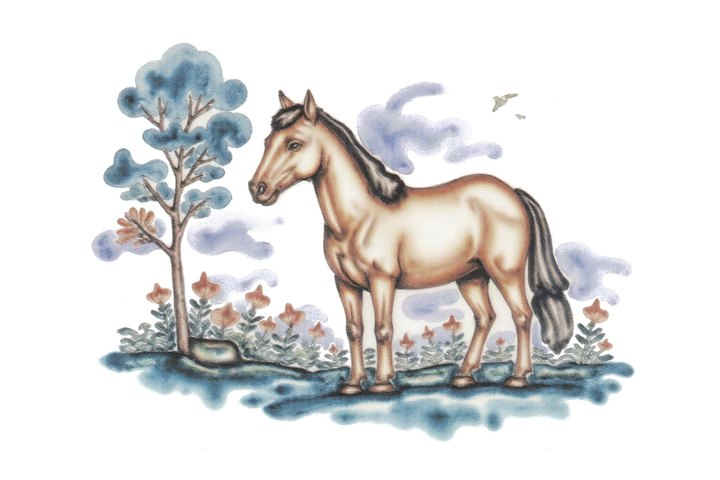
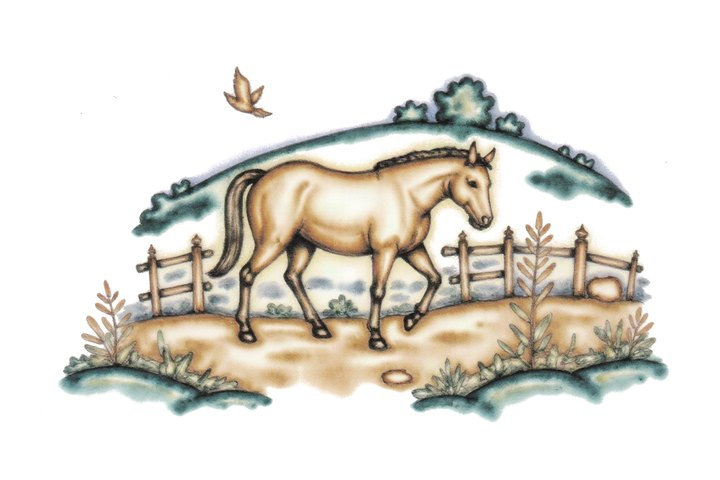
Horse page: random order each load, eight a page with arrows and the labels' slide; subtitle gone; chosen horses for Schmerling and both Kakabadzes

diff --git a/src/app/page.tsx b/src/app/page.tsx
@@ -1448,6 +1448,17 @@ const sleep = (ms: number) => new Promise((r) => setTimeout(r, ms));
   const [painters, setPainters] = useState<{ id: string; name: string; avatar: string; crop: string; page: boolean; horse?: string; horseOrder?: number }[]>([]);
   /* the taste page's message ("select 3"), in its own reserved row */
   const [tasteWarn, setTasteWarn] = useState(false);
+  /* 2026-09-29 (owner): the horses come in a RANDOM order on every load, so
+     every artist has the same chance of the first page; eight a page, the
+     arrows turn the pages with the labels' column slide */
+  const tasteOrder = useRef<Map<string, number>>(new Map());
+  const [tastePg, setTastePg] = useState(0);
+  const [tasteSlide, setTasteSlide] = useState<{ from: number; dir: number; n: number } | null>(null);
+  const showTastePg = (k: number) => {
+    setTasteSlide({ from: tastePg, dir: k > tastePg ? 1 : -1, n: Date.now() });
+    setTastePg(k);
+    setTimeout(() => setTasteSlide((sl) => (sl && Date.now() - sl.n >= SLIDE_MS + 200 ? null : sl)), SLIDE_MS + 260);
+  };
   const [styleOpen, setStyleOpen] = useState(false);
   useEffect(() => {
     fetch("/api/artists").then((r) => r.json()).then((b) => { setSiteArtists(b.artists || []); setPainters(b.painters || []); }).catch(() => { });
@@ -3161,48 +3172,70 @@ const sleep = (ms: number) => new Promise((r) => setTimeout(r, ms));
          four a row, margin to margin, as the owner laid them out; a fifth
          painter opens a second row. */
       case "taste": {
-        const list = painters.filter((a) => a.horse).sort((x, y) => (x.horseOrder ?? 99) - (y.horseOrder ?? 99));
+        /* a random order, drawn once per page load for every horse there is */
+        const horses = painters.filter((a) => a.horse);
+        for (const a of horses) if (!tasteOrder.current.has(a.id)) tasteOrder.current.set(a.id, Math.random());
+        const list = [...horses].sort((x, y) => tasteOrder.current.get(x.id)! - tasteOrder.current.get(y.id)!);
         const need = Math.min(3, list.length);
-        const IW = 240, IH = 160, COLS = 4;
+        const IW = 240, IH = 160, COLS = 4, PER = 8;
+        const pages = Math.max(1, Math.ceil(list.length / PER));
+        const pg = Math.min(tastePg, pages - 1);
         const colX = (k: number) => 137.14 + k * ((1302.86 - 137.14 - IW) / (COLS - 1));
-        const rows = Math.ceil(list.length / COLS);
-        /* one row: the owner's y (image 330.76, Select on 543.08); two rows
-           share the band between the subtitle and the bar */
-        const rowY = (r: number) => rows <= 1 ? 330.76 : 225 + r * 235;
-        /* Select's baseline under its picture: the owner's 52.32 for one row,
-           tighter (34) when two rows share the page */
-        const SEL_OFF = rows <= 1 ? 52.32 : 34;
+        /* two rows of four, the block centred between the title and the bar
+           (the owner's subtitle went, 2026-09-29) */
+        const SEL_OFF = 34;
+        const rowY = (r: number) => 208 + r * 235;
         const full = pickArtists.length >= need;
         const toggle = (id: string) => {
           setTasteWarn(false);
           setPickArtists((pa) => pa.includes(id) ? pa.filter((x) => x !== id) : pa.length >= need ? pa : [...pa, id]);
         };
+        const horse = (a: (typeof list)[number], k: number, live: boolean) => {
+          const x = colX(k % COLS), y = rowY(Math.floor(k / COLS)), cx = x + IW / 2;
+          const on = pickArtists.includes(a.id), grey = !on && full;
+          const base = y + IH + SEL_OFF;
+          return (
+            <span key={"horse" + a.id} style={{ opacity: grey ? 0.35 : 1, transition: `opacity 240ms ${EASE}`, pointerEvents: live ? "auto" : "none" }}>
+              {/* eslint-disable-next-line @next/next/no-img-element */}
+              <img src={a.horse} alt="" draggable={false} onClick={() => toggle(a.id)}
+                style={{ ...px(x, y, IW, IH), objectFit: "contain", display: "block", cursor: grey ? "default" : "pointer" }} />
+              <button onClick={() => toggle(a.id)} disabled={grey} aria-label={`select ${a.name}`}
+                style={{ ...px(cx - 28.24 - 10.56, base - 4.4 - 10.56 - 4, 90, 29), ...ghost, cursor: grey ? "default" : "pointer", textTransform: "none" }}>
+                {/* the site's standard ring (18 across, 2 thick, dot 7.5) */}
+                <span style={{ position: "absolute", left: 1.56, top: 5.56 }}>{ringSvg(18, on, { stroke: 2, dot: 7.5 })}</span>
+                <span style={{ position: "absolute", left: 10.56 + 28.24 - 7.43, top: baseTop(base, 15) - (base - 4.4 - 10.56 - 4), font: `700 15px/15px ${HNW}`, color: INK, whiteSpace: "nowrap" }}>{t("Select")}</span>
+              </button>
+            </span>
+          );
+        };
+        /* one page as four column layers — they slide one after another, as
+           the label versions do */
+        const cascade = (col: number, dir: number) => (dir > 0 ? col : COLS - 1 - col) * 70;
+        const pageLayer = (p2: number, mode: "still" | "in" | "out", dir: number) => {
+          const items = list.slice(p2 * PER, p2 * PER + PER);
+          return Array.from({ length: COLS }, (_, col) => (
+            <div key={`tp${p2}-${col}-${mode}`} style={{ position: "absolute", left: 0, top: 0, width: W, height: H, pointerEvents: "none",
+              animation: mode === "still" ? "none" : `${mode === "in" ? (dir > 0 ? "nuiSetInR" : "nuiSetInL") : (dir > 0 ? "nuiSetOutL" : "nuiSetOutR")} ${SLIDE_MS}ms ${EASE} ${cascade(col, dir)}ms both` }}>
+              {items.map((a, k) => (k % COLS === col ? horse(a, k, mode !== "out" && !inSlide) : null))}
+            </div>
+          ));
+        };
+        const midY = (rowY(0) + rowY(1) + IH) / 2;
+        const arrow = (lab: string, x: number, pts: string, to: number) => (
+          <button key={lab} aria-label={lab} onClick={() => showTastePg(to)}
+            style={{ ...px(x - 30 + 6, midY - 36, 60, 72), ...ghost, zIndex: 12, display: "flex", alignItems: "center", justifyContent: "center" }}>
+            <svg viewBox="0 0 18 22" width="25.2" height="33.6" style={{ overflow: "visible" }}><polyline points={pts} fill="none" stroke="#111" strokeWidth="1.6" /></svg>
+          </button>
+        );
         return (<>
           <span style={{ ...px(137.14, baseTop(149.08, 19), 900, 22), font: `700 19px ${HNW}`, lineHeight: "19px", color: INK, whiteSpace: "nowrap" }}>{t("BEFORE WE START, SELECT 3 HORSES YOU LIKE.")}</span>
-          {[t("Do not overthink, just select the ones"), t("that catch your attention.")].map((ln, i) => (
-            <span key={"tsub" + i} style={{ ...px(136.97, baseTop(182.56 + i * 18, 15), 700, 18), font: `italic 15px ${HNW}`, lineHeight: "15px", color: INK, whiteSpace: "nowrap" }}>{ln}</span>
-          ))}
-          {list.map((a, k) => {
-            const x = colX(k % COLS), y = rowY(Math.floor(k / COLS)), cx = x + IW / 2;
-            const on = pickArtists.includes(a.id), grey = !on && full;
-            const base = y + IH + SEL_OFF;
-            return (
-              <span key={"horse" + a.id} style={{ opacity: grey ? 0.35 : 1, transition: `opacity 240ms ${EASE}` }}>
-                {/* eslint-disable-next-line @next/next/no-img-element */}
-                <img src={a.horse} alt="" draggable={false} onClick={() => toggle(a.id)}
-                  style={{ ...px(x, y, IW, IH), objectFit: "contain", display: "block", cursor: grey ? "default" : "pointer" }} />
-                <button onClick={() => toggle(a.id)} disabled={grey} aria-label={`select ${a.name}`}
-                  style={{ ...px(cx - 28.24 - 10.56, base - 4.4 - 10.56 - 4, 90, 29), ...ghost, cursor: grey ? "default" : "pointer", textTransform: "none" }}>
-                  {/* the site's standard ring (18 across, 2 thick, dot 7.5) on the owner's centre */}
-                  <span style={{ position: "absolute", left: 1.56, top: 5.56 }}>{ringSvg(18, on, { stroke: 2, dot: 7.5 })}</span>
-                  <span style={{ position: "absolute", left: 10.56 + 28.24 - 7.43, top: baseTop(base, 15) - (base - 4.4 - 10.56 - 4), font: `700 15px/15px ${HNW}`, color: INK, whiteSpace: "nowrap" }}>{t("Select")}</span>
-                </button>
-              </span>
-            );
-          })}
+          {tasteSlide && tasteSlide.from !== pg && pageLayer(tasteSlide.from, "out", tasteSlide.dir)}
+          {pageLayer(pg, tasteSlide ? "in" : "still", tasteSlide?.dir || 1)}
+          {pages > 1 && pg > 0 && arrow("previous horses", 137.14 - 48, "13,3 5,11 13,19", pg - 1)}
+          {pages > 1 && pg < pages - 1 && arrow("next horses", 1302.86 + 48 - 12, "5,3 13,11 5,19", pg + 1)}
           {/* the red button asks for three — said here, in its own row */}
           {tasteWarn && (
-            <span style={{ ...px(137.14, baseTop(rowY(rows - 1) + IH + 100, 13), 1165.72, 16), font: `13px ${HNW}`, lineHeight: "13px", color: BAR_RED, textAlign: "center", display: "block" }}>
+            <span style={{ ...px(137.14, baseTop(rowY(1) + IH + SEL_OFF + 30, 13), 1165.72, 16), font: `13px ${HNW}`, lineHeight: "13px", color: BAR_RED, textAlign: "center", display: "block" }}>
               {need > 1 ? t("Select 3 horses to continue.") : t("Select a horse to continue.")}</span>
           )}
         </>);

diff --git a/src/app/guide.ts b/src/app/guide.ts
@@ -64,7 +64,7 @@ const PRESS_SELECT = { en: "“Select”", ge: "„აირჩიე“" };
 
 export const GUIDE: GuideStep[] = [
   /* ── the taste page (2026-09-28) ── */
-  { page: "taste", at: { x: 137.14, y: 330.76, w: 1165.72, h: 160 }, side: "above",
+  { page: "taste", at: { x: 137.14, y: 132, w: 620, h: 22 }, side: "right",
     en: "Pick the three horses you like most — don't overthink it. The artists who painted them will paint your labels.",
     ge: "აირჩიე სამი ცხენი, რომელიც ყველაზე მეტად მოგწონს — ბევრს ნუ იფიქრებ. ვინც ისინი დახატა, ის არტისტები დახატავენ შენს ეტიკეტებს.", done: "taste", press: { en: "“Select”", ge: "„აირჩიე“" } },
   { page: "taste", at: RED, side: "above",

diff --git a/CONTINUE-HERE.md b/CONTINUE-HERE.md
@@ -293,6 +293,8 @@ download), 8K.WINE header, new home label. Live smoke label OK (Giorgi,
 t05, orphan region centred). Layout edits made on the LIVE admin live in
 the server's data/layout-edits — pull them before reading.
 
+**2026-09-29 (late night) — TASTE PAGE pages:** subtitle removed; horses in a RANDOM order drawn once per page load (tasteOrder), EIGHT a page (2 rows × 4, rows at 208 / 443, Select baseline +34), a 9th opens page 2 and so on; arrows (the label versions' chevrons, 25.2×33.6, ±48 outside the grid) turn the pages with the same four-column cascade slide (nuiSetIn/Out). Picks survive page turns. The walk-through note sits beside the title. Horses per owner: Schmerling option 2, Kakabadze · Brittany option 2, Kakabadze · Imereti option 1. Mose Toidze: NOT yet (owner).
+
 **2026-09-29 (night) — owner's artist round:** KAKABADZE SPLIT in two (owner: "his oils and watercolours are two styles — mixing gives bad results"): `david-kakabadze` = "David Kakabadze · Imereti" (11 oils: patchwork landscapes + the still life, LoRA DKKBZ retrained) and `david-kakabadze-brittany` = "David Kakabadze · Brittany" (11 watercolours/abstract boats, LoRA DKBRT); charcoal + the 2 pure abstractions left out of training. The full cleaned set is kept in david-kakabadze/works-all. ABSTRACT SET (owner: "Set D — use it when Kakabadze's abstraction is chosen"): profile `abstractSet` (0-based) = Brittany's Set D (the two pure abstractions + two abstract boats) — nextRefSet gives it to abstraction runs (empty idea) ONLY and leaves it out of the ordinary turn; admin labels it "abstractions only"; `trainExclude` keeps those works out of a retrain. PIROSMANI: note "ground BLACK like his oilcloth unless the scene needs another" (goes into both charters) + `keepGround: "black"` so the variety memory never rests his black. OSKAR SCHMERLING added (1863–1938, PD; 13 works cleaned of signatures/captions, LoRA OSCHM; portrait = Eduard Klar 1911, PD, cropped of the library watermark; bio EN/GE; page 10). Horses: Imereti/Brittany/Schmerling option 1, Otskheli option 2 (owner); taste page order Mariam… Imereti 5, Brittany 6, Otskheli 7, Pirosmani 8, Schmerling 9. Artist index: names "First Last · Series" set on three lines. Test sheet: ~/Desktop/8K-sheet-test/new-artists. A "Mose Toidze" folder exists in Comments/artists — not asked for yet.
 
 **2026-09-29 (evening):** (1) painter WARM-UP switched OFF (owner) — warmLockedPainter runs only with WARM_PAINTER=1 in .env.local; REMIND THE OWNER TO TURN IT ON AT LAUNCH (memory: project-launch-reminders). (2) ADMIN → Artists: the SETS are arranged by drag and drop (SetsEditor in ArtistsCard: every work in a pool, drag into Set A…, max 4 a set, up to 8 sets, × or drag back to remove, Save) → PUT /api/admin/artists writes the server's profile.json; takes effect on the next label. DEPLOY RULE: pull the live profile.json before rsyncing any artist folder (the owner's live sets win). (3) Two-sided bands (t03, t10) test sheet made for the owner: ~/Desktop/8K-sheet-test/band-crop-test/two-sided (the low strip reads well). Owner judged the "guide" crop sheet fine except Pirosmani t01 (too low, dark ground under the type) — the cause is his all-dark canvas, not t01's proportion; asked before touching the template.
